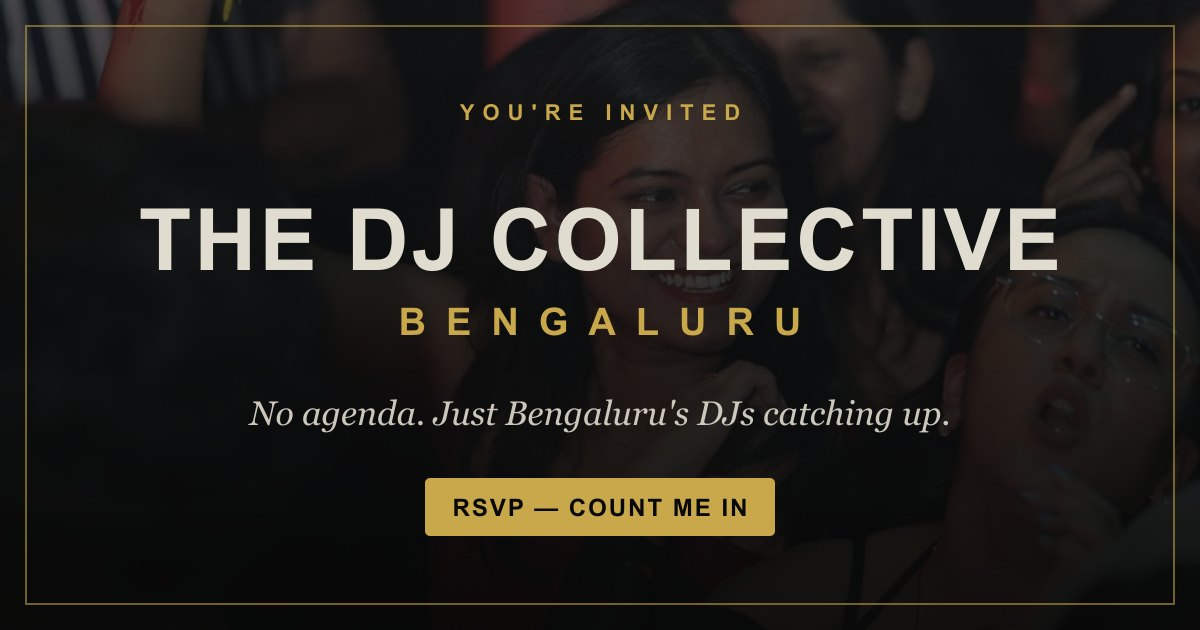
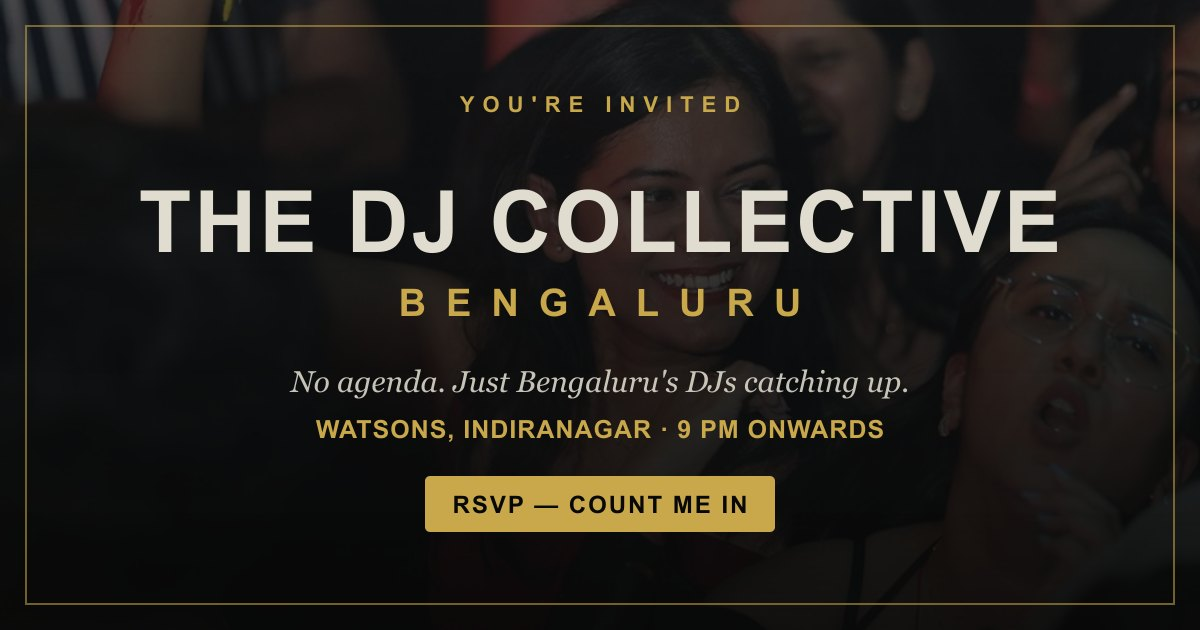
DJ Collective: venue + time confirmed (Watsons, Indiranagar · 9 PM)
Venue and start time are locked, date still TBA. Updated the popup, the
/djcollective/ landing, and the share OG card to show
"Watsons, Indiranagar · 9 PM onwards" with the date-to-be-announced note
demoted to a sub-line.

diff --git a/src/components/DJCollectivePopup.jsx b/src/components/DJCollectivePopup.jsx
@@ -145,7 +145,7 @@ export default function DJCollectivePopup() {
         {phase === "form" ? (
           <form className="djc-body" onSubmit={submit} noValidate>
             <p className="djc-intro">No agenda. Just Bengaluru's DJs catching up.<br />Let us know you're coming.</p>
-            <p className="djc-date">🗓 Date to be announced shortly — watch this space.</p>
+            <p className="djc-date">📍 Watsons, Indiranagar · 9 PM onwards<br /><span className="djc-date-sub">Date to be announced shortly — watch this space.</span></p>
             <input type="text" name="company" className="djc-hp" tabIndex={-1} autoComplete="off" aria-hidden="true"
               value={data.company} onChange={(e) => set("company", e.target.value)} />
 
@@ -212,7 +212,8 @@ const styles = `
 .djc-count{display:block;font-family:'Lora',serif;font-style:italic;font-size:.82rem;line-height:1.4;color:rgba(201,168,76,.92);margin-top:.85rem;padding-top:.7rem;border-top:1px solid rgba(201,168,76,.18);}
 .djc-body{padding:1.05rem 1.6rem 1.7rem;display:flex;flex-direction:column;gap:.7rem;}
 .djc-intro{font-family:'Lora',serif;font-style:italic;font-size:.95rem;line-height:1.55;color:rgba(224,220,207,.78);text-align:center;margin:0 0 .2rem;}
-.djc-date{font-family:'Inter',sans-serif;font-size:.74rem;font-weight:500;letter-spacing:.02em;color:#C9A84C;text-align:center;margin:0 0 .4rem;}
+.djc-date{font-family:'Inter',sans-serif;font-size:.8rem;font-weight:600;letter-spacing:.02em;color:#C9A84C;text-align:center;margin:0 0 .4rem;line-height:1.5;}
+.djc-date-sub{font-weight:400;color:rgba(224,220,207,.5);}
 .djc-field{display:flex;flex-direction:column;gap:.3rem;font-size:.64rem;font-weight:600;letter-spacing:.1em;text-transform:uppercase;color:rgba(224,220,207,.5);}
 .djc-field em{text-transform:none;letter-spacing:0;font-style:italic;font-weight:400;color:rgba(224,220,207,.38);}
 .djc-field input,.djc-field select{background:#0e0e0e;border:1px solid #262626;color:#E0DCCF;padding:.7rem .8rem;font-size:.92rem;font-family:'Inter',sans-serif;border-radius:4px;text-transform:none;letter-spacing:normal;font-weight:400;transition:border-color .2s;}